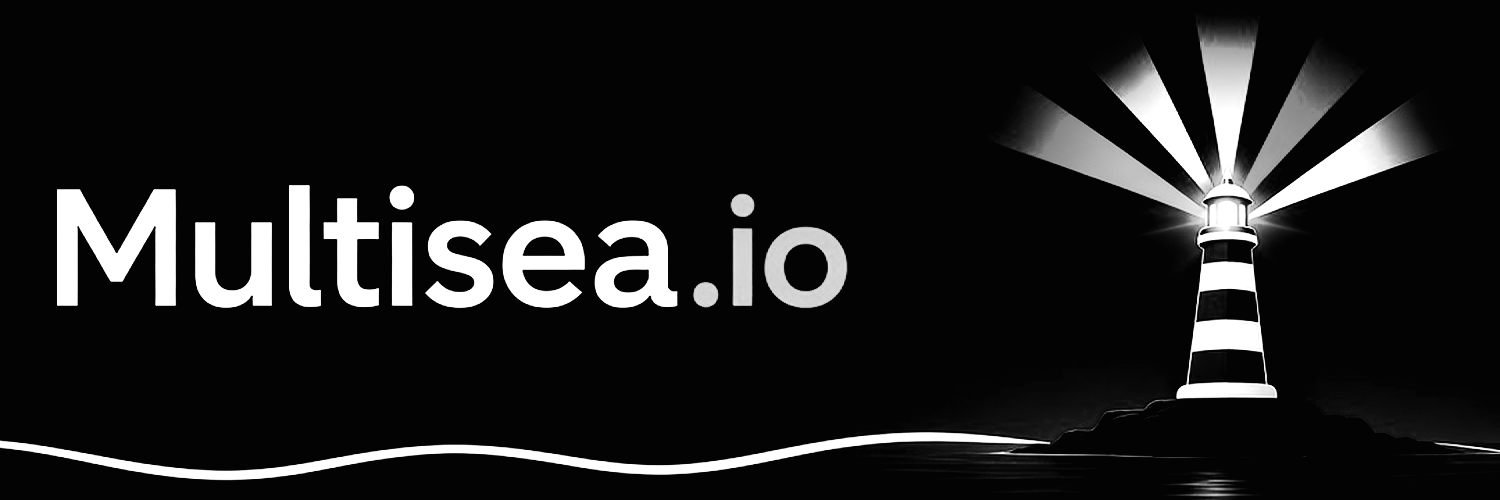
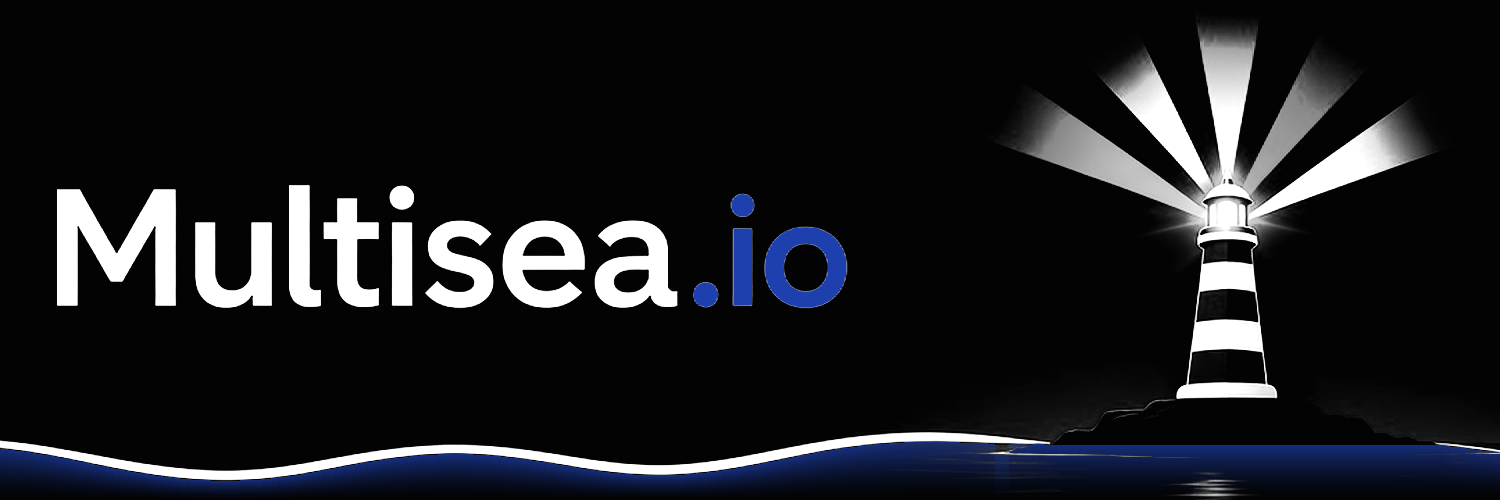
Deploy navy accents

Changed region(s): [[0.0, 0.87, 1.0, 0.99], [0.46, 0.39, 0.5827, 0.63]]

diff --git a/assets/style-61esdYXF.css b/assets/style-61esdYXF.css
@@ -1,0 +1,1 @@
+*{box-sizing:border-box}body{color:#e5e5e5;background:#000;margin:0;font:14px/1.4 Inter,-apple-system,Segoe UI,Roboto,sans-serif}a{color:#d9d9d9;text-decoration:none}button,select,input{font:inherit;color:inherit}.mono{font-family:ui-monospace,Menlo,monospace;font-size:12px}.mut{color:#8a8a93}.small{font-size:12px}.cl{vertical-align:middle;border-radius:50%;flex:none;width:18px;height:18px}.cl.lg{width:40px;height:40px}.top{-webkit-backdrop-filter:blur(8px);backdrop-filter:blur(8px);z-index:20;background:#000000f0;border-bottom:1px solid #262626;justify-content:space-between;align-items:center;padding:12px 20px;display:flex;position:sticky;top:0}.brand{font-size:17px;font-weight:800}.brand span{color:#d9d9d9}.colsel{background:#1a1a1a;border:1px solid #262626;border-radius:10px;padding:7px 10px}.banner{background:#111 50%/cover;flex-direction:column;justify-content:flex-end;min-height:380px;display:flex;position:relative;overflow:hidden}.banner-art{opacity:.55;filter:saturate(1.1);grid-template-columns:repeat(6,1fr);display:grid;position:absolute;inset:0}.banner-art img{object-fit:cover;aspect-ratio:1;width:100%;height:100%}.banner-fade{background:linear-gradient(#00000010 0%,#000a 55%,#000 100%);position:absolute;inset:0}.hero{align-items:flex-end;gap:18px;padding:0 24px;display:flex;position:relative}.avatar{object-fit:cover;background:#222;border:3px solid #000;border-radius:14px;width:96px;height:96px}h1{letter-spacing:-.5px;margin:0;font-size:34px;font-weight:800}.verified{vertical-align:middle;background:#d9d9d9;border-radius:50%;place-items:center;width:22px;height:22px;font-size:13px;display:inline-grid}.by{color:#bbb;align-items:center;gap:4px;margin-top:6px;font-size:13px;display:flex}.by span{margin-left:6px}.stats{flex-wrap:wrap;gap:34px;padding:18px 24px 20px;display:flex;position:relative}.stat{flex-direction:column;display:flex}.stat b{align-items:center;gap:6px;font-size:18px;font-weight:700;display:flex}.stat span{color:#9a9aa3;font-size:12px}.tip{cursor:help;position:relative}.tipbox{z-index:30;background:#1a1a1a;border:1px solid #262626;border-radius:12px;min-width:240px;padding:10px;display:none;position:absolute;top:100%;left:0;box-shadow:0 10px 30px #000a}.tip:hover .tipbox,.tip:focus .tipbox,.tip:active .tipbox{display:block}.tipr{align-items:center;gap:8px;padding:4px 0;display:flex}.tipr span{flex:1;color:#ccc!important;font-size:13px!important}.tipr b{font-size:13px}.tipnote{color:#777;margin-top:6px;font-size:11px}.need{color:#f5b450;white-space:nowrap;background:#3b2a12;border-radius:6px;margin-left:4px;padding:1px 6px;font-size:10px;font-style:normal}.tag{color:#e5e5e5;background:#1a1a1a;border-radius:6px;padding:1px 6px;font-size:10px;font-style:normal}.desc{color:#aaa;max-width:800px;margin:0 0 6px;padding:0 24px}.tabs{border-bottom:1px solid #262626;gap:22px;padding:0 24px;display:flex}.tabs button{color:#8a8a93;cursor:pointer;background:0 0;border:0;border-bottom:2px solid #0000;padding:14px 0;font-weight:600}.tabs .on{color:#fff;border-color:#fff}.chips{scrollbar-width:none;gap:8px;padding:12px 24px;display:flex;overflow-x:auto}.chip{white-space:nowrap;cursor:pointer;background:#141414;border:1px solid #262626;border-radius:999px;align-items:center;gap:6px;padding:6px 12px;display:flex}.chip.on{background:#1c1c1c;border-color:#d9d9d9}.chip em{color:#888;font-size:12px;font-style:normal}.content{padding:0 24px 40px}.bar{z-index:10;background:#000;gap:10px;padding:8px 0 12px;display:flex;position:sticky;top:57px}.fbtn,.search,.sort{background:#141414;border:1px solid #262626;border-radius:12px;padding:10px 14px}.fbtn{cursor:pointer}.search{flex:1;min-width:0}.layout{gap:20px;display:flex}.side{flex:none;width:280px;max-height:calc(100vh - 130px);display:none;position:sticky;top:120px;overflow:auto}.side.open{display:block}.side-h{display:none}.grp{border-bottom:1px solid #262626;padding:8px 0}.gh{padding:6px 0;font-weight:700}.gh.pad{padding-top:14px}.grp summary{cursor:pointer;justify-content:space-between;padding:8px 0;font-weight:600;list-style:none;display:flex}.grp summary:after{content:"▾";color:#666}.grp summary em{color:#777;margin-left:auto;margin-right:8px;font-style:normal}.grp label{cursor:pointer;border-radius:8px;align-items:center;gap:8px;padding:5px 4px;font-size:13px;display:flex}.grp label:hover{background:#141414}.grp label em{color:#777;margin-left:auto;font-style:normal}.main{flex:1;min-width:0}.count{color:#aaa;flex-wrap:wrap;align-items:center;gap:10px;padding:4px 0 12px;display:flex}.pills{flex-wrap:wrap;gap:6px;display:flex}.pill{cursor:pointer;background:#1a1a1a;border:1px solid #262626;border-radius:10px;padding:4px 10px;font-size:12px}.pill.clr{color:#d9d9d9;background:0 0;border:0}.grid{grid-template-columns:repeat(auto-fill,minmax(190px,1fr));gap:14px;display:grid}.card{cursor:pointer;background:#141414;border-radius:12px;transition:transform .15s,box-shadow .15s;overflow:hidden}.card:hover{transform:translateY(-3px);box-shadow:0 8px 24px #000c}.ci{aspect-ratio:1;background:#1a1a1a;position:relative}.ci img{object-fit:cover;width:100%;height:100%;display:block}.badge{background:#000a;border-radius:50%;padding:3px;display:flex;position:absolute;top:8px;left:8px}.badge .cl{width:22px;height:22px}.badge.none{color:#aaa;justify-content:center;align-items:center;width:28px;height:28px;font-weight:700}.rank{color:#ddd;background:#000b;border-radius:8px;padding:2px 7px;font-size:11px;position:absolute;top:8px;right:8px}.cb{padding:10px 12px}.cn{white-space:nowrap;text-overflow:ellipsis;font-size:13px;font-weight:600;overflow:hidden}.cp{margin-top:4px;font-size:13px}.more{text-align:center;padding:20px}.more button{cursor:pointer;background:#d9d9d9;border:0;border-radius:12px;padding:10px 26px;font-weight:600}.act{margin-top:6px}.acth,.actr{border-bottom:1px solid #1a1a1a;grid-template-columns:120px 1.6fr 1fr 1fr 1fr 110px;align-items:center;gap:10px;padding:10px 6px;display:grid}.acth{color:#777;font-size:12px}.ev{align-items:center;gap:8px;display:flex}.t-sale{color:#3fd68f}.t-mint{color:#e5e5e5}.ai{cursor:pointer;align-items:center;gap:10px;min-width:0;display:flex}.ai img{object-fit:cover;border-radius:8px;width:40px;height:40px}.ai span{white-space:nowrap;text-overflow:ellipsis;overflow:hidden}.empty{text-align:center;color:#777;padding:40px}.ctab{grid-template-columns:repeat(auto-fill,minmax(320px,1fr));gap:14px;padding-top:6px;display:grid}.cc{background:#141414;border-radius:14px;gap:14px;padding:16px;display:flex}.cc h3{margin:0 0 4px;font-size:16px}.cc a.mono{word-break:break-all}.kv{grid-template-columns:1fr auto;gap:4px 16px;margin-top:10px;font-size:13px;display:grid}.kv span{color:#999}.os{margin-top:10px;display:inline-block}.ctab>p{grid-column:1/-1}.modal{z-index:50;background:#000c;place-items:center;padding:20px;display:grid;position:fixed;inset:0;overflow:auto}.mbox{background:#121212;border:1px solid #262626;border-radius:18px;grid-template-columns:1fr 1fr;width:100%;max-width:1000px;display:grid;position:relative;overflow:hidden}.mimg img{aspect-ratio:1;object-fit:cover;width:100%;display:block}.minfo{max-height:90vh;padding:24px;overflow:auto}.mcol{color:#d9d9d9;font-weight:600}.minfo h2{margin:4px 0 10px;font-size:28px}.mrow{color:#bbb;flex-wrap:wrap;align-items:center;gap:16px;display:flex}.mrow span{align-items:center;gap:6px;display:flex}.pricebox{background:#171717;border:1px solid #262626;border-radius:14px;margin:16px 0;padding:14px}.big{align-items:center;gap:8px;margin:4px 0;font-size:26px;font-weight:800;display:flex}.osls{flex-wrap:wrap;gap:6px;margin-top:10px;display:flex}.osl{color:#ddd;background:#202020;border-radius:10px;align-items:center;gap:6px;padding:6px 10px;font-size:12px;display:flex}.osl.cur{color:#fff;background:#d9d9d9}.tgrid{grid-template-columns:repeat(auto-fill,minmax(140px,1fr));gap:8px;display:grid}.trait{background:#171717;border:1px solid #262626;border-radius:10px;flex-direction:column;padding:8px 10px;display:flex}.trait span{color:#8a8a93;text-transform:uppercase;font-size:11px}.trait b{font-size:14px}.trait em{color:#d9d9d9;font-size:11px;font-style:normal}.x{cursor:pointer;background:#0008;border:0;border-radius:50%;width:32px;height:32px}.mx{z-index:2;position:absolute;top:10px;right:10px}img.broken{opacity:.15}@media (max-width:900px){.side{z-index:40;background:#000;width:auto;max-height:none;padding:16px;position:fixed;inset:0}.side-h{justify-content:space-between;align-items:center;margin-bottom:8px;display:flex}.bar{top:53px}}@media (max-width:640px){.top{padding:10px 14px}.banner{min-height:300px}.banner-art{grid-template-columns:repeat(4,1fr)}.hero{padding:0 14px}.avatar{width:72px;height:72px}h1{font-size:24px}.stats{grid-template-columns:repeat(3,1fr);gap:12px 10px;padding:14px;display:grid}.stat b{font-size:15px}.stat span{font-size:11px}.tipbox{min-width:220px}.stats .stat:nth-child(3n) .tipbox{left:auto;right:0}.desc{padding:0 14px;font-size:13px}.tabs{padding:0 14px}.chips{padding:10px 14px}.content{padding:0 10px 30px}.grid{grid-template-columns:repeat(2,1fr);gap:10px}.sort{max-width:42%}.fbtn{padding:10px}.acth{display:none}.actr{grid-template-columns:auto 1fr auto;grid-template-areas:"ev ai pr""ev fr tm";gap:4px 10px}.actr>span:first-child{grid-area:ev}.actr>span:nth-child(2){grid-area:ai}.actr>span:nth-child(3){text-align:right;grid-area:pr}.actr>span:nth-child(4){display:none}.actr>span:nth-child(5){color:#888;grid-area:fr}.actr>span:nth-child(6){text-align:right;grid-area:tm;font-size:12px}.ev b{display:none}.mbox{grid-template-columns:1fr}.minfo{max-height:none}.modal{place-items:start center;padding:10px}.ctab{grid-template-columns:1fr}}.navr{align-items:center;gap:8px;display:flex}.wbtn{cursor:pointer;white-space:nowrap;background:#d9d9d9;border:0;border-radius:10px;align-items:center;gap:6px;padding:8px 12px;font-weight:700;display:flex}.wbtn.on{background:#1a1a1a;border:1px solid #262626;font-family:ui-monospace,Menlo,monospace;font-size:12px}.wdot{background:#555;border-radius:50%;width:8px;height:8px;display:inline-block}.wdot.on{background:#3fd68f}.buy{cursor:pointer;background:#d9d9d9;border:0;border-radius:8px;width:100%;margin-top:8px;padding:7px;font-weight:700}.buy:disabled{color:#888;cursor:not-allowed;background:#262626}.buy small{opacity:.8;font-size:10px;font-weight:500}.buy.big{margin:10px 0 0;padding:12px;font-size:16px}.wbox{background:#121212;border:1px solid #262626;border-radius:18px;width:100%;max-width:420px;padding:20px;position:relative}.wbox h3{margin:0 0 12px}.wopt{cursor:pointer;color:#eee;background:#171717;border:1px solid #262626;border-radius:12px;align-items:center;gap:12px;width:100%;margin:8px 0;padding:12px;font-weight:600;display:flex}.wopt img,.wopt .wdot{border-radius:6px;width:28px;height:28px}.bhead{align-items:center;gap:12px;margin-bottom:14px;display:flex}.bhead img{object-fit:cover;border-radius:10px;width:64px;height:64px}.bhead h3{margin:2px 0 0}.bbody{min-height:60px}.bkv{grid-template-columns:auto 1fr;gap:8px 14px;font-size:14px}.bkv b{text-align:right;justify-content:flex-end;align-items:center;gap:6px;display:flex}.bbtn{text-align:center;color:#fff;cursor:pointer;background:#d9d9d9;border:0;border-radius:12px;width:100%;margin-top:12px;padding:13px;font-size:15px;font-weight:700;display:block}.bbtn:disabled{color:#777;background:#262626}.bbtn.ghost{background:#202020}.err{color:#ff6b6b}.errc{color:#ff6b6b!important}.ok{color:#3fd68f}.spin{vertical-align:middle;border:2px solid #444;border-top-color:#d9d9d9;border-radius:50%;width:16px;height:16px;margin-right:8px;animation:1s linear infinite sp;display:inline-block}@keyframes sp{to{transform:rotate(360deg)}}@media (max-width:640px){.brand{font-size:15px}.colsel{display:none}.wbtn{padding:7px 10px;font-size:13px}}.banner-art span{aspect-ratio:1;display:block}.ci img{aspect-ratio:1;width:100%;height:auto}.mimg{aspect-ratio:1;position:relative}.mimg img{object-fit:cover;width:100%;height:100%;position:absolute;inset:0}.mimg .hi{opacity:0;transition:opacity .25s}.mimg .hi.in{opacity:1}:root{--navy:#0a0a0a;--beam-blue:#d9d9d9;--beam-cyan:#22d3ee;--beam-amber:#fbbf24;--beam-violet:#bdbdbd;--beam-lime:#a3e635}.brand{color:#fff;letter-spacing:-.3px;align-items:center;gap:8px;font-size:18px;font-weight:800;text-decoration:none;display:flex}.brand img{border-radius:8px}.brand b{color:var(--beam-blue)}.navl{flex:1;gap:16px;margin-left:24px;display:flex}.navl a{color:#bdbdbd;font-size:14px;font-weight:600}.navl a.on,.navl a:hover{color:#fff}.top{background:linear-gradient(#0a0a0af5,#0a0a0af0)!important;border-bottom:1px solid #262626!important}.top:after{content:"";background:linear-gradient(90deg,var(--beam-violet),var(--beam-amber),var(--beam-cyan),var(--beam-blue),var(--beam-lime));opacity:.7;height:2px;position:absolute;bottom:-1px;left:0;right:0}.mshero{background:#0a0a0a;line-height:0}.mshero img{object-fit:cover;object-position:left center;width:100%;height:auto;max-height:420px}.home{max-width:1280px;margin:0 auto;padding:20px 24px 40px}.homeh{justify-content:space-between;align-items:center;display:flex}.homeh h2{margin:6px 0}.bbtn.sm{width:auto;margin:0;padding:9px 16px;font-size:14px;display:inline-block}.cgrid{grid-template-columns:repeat(auto-fill,minmax(300px,1fr));gap:18px;margin-top:16px;display:grid}.ccard{color:#ededed;background:#141414;border:1px solid #262626;border-radius:16px;transition:transform .15s,box-shadow .15s;display:block;overflow:hidden}.ccard:hover{transform:translateY(-3px);box-shadow:0 10px 30px #000a}.ccb{background:#1a1a1a;height:130px;position:relative;overflow:hidden}.ccb>img{object-fit:cover;width:100%;height:100%}.ccart{grid-template-columns:repeat(4,1fr);height:100%;display:grid}.ccart img{object-fit:cover;width:100%;height:100%}.ftag{background:linear-gradient(90deg,var(--beam-amber),var(--beam-lime));color:#0a0a0a;border-radius:999px;padding:3px 9px;font-size:11px;font-weight:800;position:absolute;top:10px;right:10px}.ccbody{padding:38px 16px 16px;position:relative}.cclogo{object-fit:cover;background:#1a1a1a;border:3px solid #141414;border-radius:12px;width:56px;height:56px;position:absolute;top:-30px;left:16px}.ccname{font-size:18px;font-weight:800}.ccchains{gap:4px;margin:6px 0 12px;display:flex}.ccstats{grid-template-columns:repeat(3,1fr);gap:8px;display:grid}.ccstats span{color:#9a9a9a;font-size:11px;display:block}.ccstats b{font-size:13px}.foot{color:#8a8a8a;border-top:1px solid #262626;justify-content:center;align-items:center;gap:8px;padding:24px;font-size:12px;display:flex}.banner.has-img{background-position:50%;background-size:cover}.hero2{align-items:flex-end;gap:18px;padding:0 24px;display:flex;position:relative}.descrow{flex-wrap:wrap;justify-content:space-between;align-items:flex-start;gap:16px;padding:0 24px;display:flex}.descrow .desc{flex:1;min-width:260px;padding:0}.links{flex-wrap:wrap;align-items:center;gap:10px;display:flex}.links a{color:#d4d4d4;background:#141414;border:1px solid #262626;border-radius:10px;padding:6px 10px;font-size:13px}.editbtn{background:linear-gradient(90deg,var(--beam-blue),var(--beam-cyan));color:#000;cursor:pointer;border:0;border-radius:10px;padding:7px 12px;font-weight:800}.page{max-width:820px;margin:0 auto;padding:24px 18px 60px}.page h2{margin:4px 0 8px}.form label{margin:12px 0;font-size:14px;font-weight:600;display:block}.form input:not([type=file]),.form textarea,.form select{color:#fff;width:100%;font:inherit;background:#141414;border:1px solid #262626;border-radius:10px;margin-top:6px;padding:10px 12px;display:block}.form fieldset{border:0;margin:0;padding:0}.form fieldset:disabled{opacity:.45}.two{grid-template-columns:1fr 1fr;gap:14px;display:grid}.three{grid-template-columns:1fr 1fr 1fr;gap:14px;display:grid}.crow{align-items:center;gap:8px;margin:8px 0;display:flex}.crow select{flex:none;width:150px!important;margin:0!important}.crow input{margin:0!important}.chk{white-space:nowrap;font-size:12px}.pick{align-items:center;gap:10px;margin-top:6px;display:flex}.pv{object-fit:cover;background:#1a1a1a;border-radius:10px;flex:none}.pv.lg{width:64px;height:64px}.pv.bn{width:150px;height:50px}.pv[src=""]{visibility:hidden}.soon{color:#ffd27a;background:#2a1f05;border:1px solid #6b4d0a;border-radius:12px;margin:12px 0;padding:12px 14px}.okbox{color:#7ef0b5;background:#06321f;border:1px solid #0f6b43;border-radius:12px;margin:12px 0;padding:12px 14px}.msg{min-height:1em}.qcard{background:#141414;border:1px solid #262626;border-radius:14px;margin:12px 0;padding:14px}.qh{align-items:center;gap:10px;display:flex}.qh img{border-radius:10px;width:44px;height:44px}.qa{gap:8px;margin-top:10px;display:flex}.wbox.form{max-height:90vh;overflow:auto}@media (max-width:640px){.navl{gap:10px;margin-left:10px}.navl a{font-size:13px}.brand span{font-size:16px}.brand img{width:28px;height:28px}.two,.three{grid-template-columns:1fr}.home{padding:16px 12px}.cgrid{grid-template-columns:1fr}.mshero img{max-height:200px}.descrow,.hero2{padding:0 14px}}@media (max-width:380px){.navl a:first-child{display:none}}.stat small.usd{color:#8a8a8a;margin-top:1px;font-size:11px;font-weight:600;display:block}.ccstats{grid-template-columns:repeat(4,1fr)}@media (max-width:480px){.ccstats{grid-template-columns:repeat(2,1fr)}}.verified,.osl.cur{color:#000!important;background:#d9d9d9!important}.more button,.wbtn,.buy,.bbtn{color:#fff!important;background:#1e40af!important;border-color:#1e40af!important}.more button:hover,.wbtn:hover,.buy:hover,.bbtn:hover{background:#2550c8!important}.bbtn:disabled,.buy:disabled{color:#9aa4c0!important;background:#1a2a55!important}.ccard.feat{border-color:#d9d9d988;box-shadow:0 0 0 1px #d9d9d944,0 8px 30px #ffffff14}:root{--beam-blue:#d9d9d9;--beam-cyan:#f2f2f2;--beam-amber:#bfbfbf;--beam-violet:#8c8c8c;--beam-lime:#e6e6e6}.editbtn,.ftag{color:#000!important}

diff --git a/404.html b/404.html
@@ -6,14 +6,14 @@
 <link rel="icon" href="/favicon.ico?v=ef1ef443" sizes="32x32"/><link rel="icon" type="image/png" sizes="16x16" href="/favicon-16.png?v=b2f59e7b"/><link rel="icon" type="image/png" sizes="48x48" href="/favicon-48.png?v=a41dc6f3"/>
 <link rel="apple-touch-icon" href="/apple-touch-icon.png?v=9adb47bd"/><link rel="manifest" href="/site.webmanifest?v=d0d1082e"/>
 <meta property="og:type" content="website"/><meta property="og:site_name" content="MultiSea"/><meta property="og:title" content="MultiSea"/>
-<meta property="og:description" content="Multichain NFT collections in one view."/><meta property="og:image" content="https://multisea.io/og-image.png?v=d1154efe"/>
+<meta property="og:description" content="Multichain NFT collections in one view."/><meta property="og:image" content="https://multisea.io/og-image.png?v=bb83f59c"/>
 <meta property="og:image:width" content="1200"/><meta property="og:image:height" content="630"/><meta property="og:url" content="https://multisea.io/"/>
-<meta name="twitter:card" content="summary_large_image"/><meta name="twitter:image" content="https://multisea.io/og-image.png?v=d1154efe"/>
-<script>(function(){var m=location.pathname.match(/^\/c\/(lil-foots)\/?$/);var f=m?['summary.json','items.min.json','listings.json','owners.min.json','traits.json'].map(function(x){return '/data/'+m[1]+'/'+x}):location.pathname==='/'||location.pathname==='/index.html'?['/data/lil-foots/summary.json']:[];f.forEach(function(h){var l=document.createElement('link');l.rel='preload';l.as='fetch';l.crossOrigin='anonymous';l.href=h;document.head.appendChild(l)});if(location.pathname==='/'){var p=document.createElement('link');p.rel='preload';p.as='image';p.href='/brand/banner-1500.webp?v=c148c0fe';p.setAttribute('imagesrcset','/brand/banner-900.webp?v=5218b50e 900w, /brand/banner-1500.webp?v=c148c0fe 1500w');p.setAttribute('imagesizes','100vw');document.head.appendChild(p)}})();</script>
+<meta name="twitter:card" content="summary_large_image"/><meta name="twitter:image" content="https://multisea.io/og-image.png?v=bb83f59c"/>
+<script>(function(){var m=location.pathname.match(/^\/c\/(lil-foots)\/?$/);var f=m?['summary.json','items.min.json','listings.json','owners.min.json','traits.json'].map(function(x){return '/data/'+m[1]+'/'+x}):location.pathname==='/'||location.pathname==='/index.html'?['/data/lil-foots/summary.json']:[];f.forEach(function(h){var l=document.createElement('link');l.rel='preload';l.as='fetch';l.crossOrigin='anonymous';l.href=h;document.head.appendChild(l)});if(location.pathname==='/'){var p=document.createElement('link');p.rel='preload';p.as='image';p.href='/brand/banner-1500.webp?v=0071b6aa';p.setAttribute('imagesrcset','/brand/banner-900.webp?v=30b60469 900w, /brand/banner-1500.webp?v=0071b6aa 1500w');p.setAttribute('imagesizes','100vw');document.head.appendChild(p)}})();</script>
 <style>body{background:#000;margin:0}</style>
-  <script type="module" crossorigin src="/assets/index-DZs3pemG.js"></script>
+  <script type="module" crossorigin src="/assets/index-DQEPmJRS.js"></script>
   <link rel="modulepreload" crossorigin href="/assets/collections-D3tCsCNy.js">
   <link rel="modulepreload" crossorigin href="/assets/preload-helper-BLdHbfdN.js">
-  <link rel="stylesheet" crossorigin href="/assets/style-CsZItRQj.css">
+  <link rel="stylesheet" crossorigin href="/assets/style-61esdYXF.css">
 </head>
 <body><div id="app"></div></body></html>

diff --git a/admin/index.html b/admin/index.html
@@ -6,14 +6,14 @@
 <link rel="icon" href="/favicon.ico?v=ef1ef443" sizes="32x32"/><link rel="icon" type="image/png" sizes="16x16" href="/favicon-16.png?v=b2f59e7b"/><link rel="icon" type="image/png" sizes="48x48" href="/favicon-48.png?v=a41dc6f3"/>
 <link rel="apple-touch-icon" href="/apple-touch-icon.png?v=9adb47bd"/><link rel="manifest" href="/site.webmanifest?v=d0d1082e"/>
 <meta property="og:type" content="website"/><meta property="og:site_name" content="MultiSea"/><meta property="og:title" content="MultiSea"/>
-<meta property="og:description" content="Multichain NFT collections in one view."/><meta property="og:image" content="https://multisea.io/og-image.png?v=d1154efe"/>
+<meta property="og:description" content="Multichain NFT collections in one view."/><meta property="og:image" content="https://multisea.io/og-image.png?v=bb83f59c"/>
 <meta property="og:image:width" content="1200"/><meta property="og:image:height" content="630"/><meta property="og:url" content="https://multisea.io/"/>
-<meta name="twitter:card" content="summary_large_image"/><meta name="twitter:image" content="https://multisea.io/og-image.png?v=d1154efe"/>
-<script>(function(){var m=location.pathname.match(/^\/c\/(lil-foots)\/?$/);var f=m?['summary.json','items.min.json','listings.json','owners.min.json','traits.json'].map(function(x){return '/data/'+m[1]+'/'+x}):location.pathname==='/'||location.pathname==='/index.html'?['/data/lil-foots/summary.json']:[];f.forEach(function(h){var l=document.createElement('link');l.rel='preload';l.as='fetch';l.crossOrigin='anonymous';l.href=h;document.head.appendChild(l)});if(location.pathname==='/'){var p=document.createElement('link');p.rel='preload';p.as='image';p.href='/brand/banner-1500.webp?v=c148c0fe';p.setAttribute('imagesrcset','/brand/banner-900.webp?v=5218b50e 900w, /brand/banner-1500.webp?v=c148c0fe 1500w');p.setAttribute('imagesizes','100vw');document.head.appendChild(p)}})();</script>
+<meta name="twitter:card" content="summary_large_image"/><meta name="twitter:image" content="https://multisea.io/og-image.png?v=bb83f59c"/>
+<script>(function(){var m=location.pathname.match(/^\/c\/(lil-foots)\/?$/);var f=m?['summary.json','items.min.json','listings.json','owners.min.json','traits.json'].map(function(x){return '/data/'+m[1]+'/'+x}):location.pathname==='/'||location.pathname==='/index.html'?['/data/lil-foots/summary.json']:[];f.forEach(function(h){var l=document.createElement('link');l.rel='preload';l.as='fetch';l.crossOrigin='anonymous';l.href=h;document.head.appendChild(l)});if(location.pathname==='/'){var p=document.createElement('link');p.rel='preload';p.as='image';p.href='/brand/banner-1500.webp?v=0071b6aa';p.setAttribute('imagesrcset','/brand/banner-900.webp?v=30b60469 900w, /brand/banner-1500.webp?v=0071b6aa 1500w');p.setAttribute('imagesizes','100vw');document.head.appendChild(p)}})();</script>
 <style>body{background:#000;margin:0}</style>
-  <script type="module" crossorigin src="/assets/index-DZs3pemG.js"></script>
+  <script type="module" crossorigin src="/assets/index-DQEPmJRS.js"></script>
   <link rel="modulepreload" crossorigin href="/assets/collections-D3tCsCNy.js">
   <link rel="modulepreload" crossorigin href="/assets/preload-helper-BLdHbfdN.js">
-  <link rel="stylesheet" crossorigin href="/assets/style-CsZItRQj.css">
+  <link rel="stylesheet" crossorigin href="/assets/style-61esdYXF.css">
 </head>
 <body><div id="app"></div></body></html>

diff --git a/c/lil-foots/index.html b/c/lil-foots/index.html
@@ -6,14 +6,14 @@
 <link rel="icon" href="/favicon.ico?v=ef1ef443" sizes="32x32"/><link rel="icon" type="image/png" sizes="16x16" href="/favicon-16.png?v=b2f59e7b"/><link rel="icon" type="image/png" sizes="48x48" href="/favicon-48.png?v=a41dc6f3"/>
 <link rel="apple-touch-icon" href="/apple-touch-icon.png?v=9adb47bd"/><link rel="manifest" href="/site.webmanifest?v=d0d1082e"/>
 <meta property="og:type" content="website"/><meta property="og:site_name" content="MultiSea"/><meta property="og:title" content="MultiSea"/>
-<meta property="og:description" content="Multichain NFT collections in one view."/><meta property="og:image" content="https://multisea.io/og-image.png?v=d1154efe"/>
+<meta property="og:description" content="Multichain NFT collections in one view."/><meta property="og:image" content="https://multisea.io/og-image.png?v=bb83f59c"/>
 <meta property="og:image:width" content="1200"/><meta property="og:image:height" content="630"/><meta property="og:url" content="https://multisea.io/"/>
-<meta name="twitter:card" content="summary_large_image"/><meta name="twitter:image" content="https://multisea.io/og-image.png?v=d1154efe"/>
-<script>(function(){var m=location.pathname.match(/^\/c\/(lil-foots)\/?$/);var f=m?['summary.json','items.min.json','listings.json','owners.min.json','traits.json'].map(function(x){return '/data/'+m[1]+'/'+x}):location.pathname==='/'||location.pathname==='/index.html'?['/data/lil-foots/summary.json']:[];f.forEach(function(h){var l=document.createElement('link');l.rel='preload';l.as='fetch';l.crossOrigin='anonymous';l.href=h;document.head.appendChild(l)});if(location.pathname==='/'){var p=document.createElement('link');p.rel='preload';p.as='image';p.href='/brand/banner-1500.webp?v=c148c0fe';p.setAttribute('imagesrcset','/brand/banner-900.webp?v=5218b50e 900w, /brand/banner-1500.webp?v=c148c0fe 1500w');p.setAttribute('imagesizes','100vw');document.head.appendChild(p)}})();</script>
+<meta name="twitter:card" content="summary_large_image"/><meta name="twitter:image" content="https://multisea.io/og-image.png?v=bb83f59c"/>
+<script>(function(){var m=location.pathname.match(/^\/c\/(lil-foots)\/?$/);var f=m?['summary.json','items.min.json','listings.json','owners.min.json','traits.json'].map(function(x){return '/data/'+m[1]+'/'+x}):location.pathname==='/'||location.pathname==='/index.html'?['/data/lil-foots/summary.json']:[];f.forEach(function(h){var l=document.createElement('link');l.rel='preload';l.as='fetch';l.crossOrigin='anonymous';l.href=h;document.head.appendChild(l)});if(location.pathname==='/'){var p=document.createElement('link');p.rel='preload';p.as='image';p.href='/brand/banner-1500.webp?v=0071b6aa';p.setAttribute('imagesrcset','/brand/banner-900.webp?v=30b60469 900w, /brand/banner-1500.webp?v=0071b6aa 1500w');p.setAttribute('imagesizes','100vw');document.head.appendChild(p)}})();</script>
 <style>body{background:#000;margin:0}</style>
-  <script type="module" crossorigin src="/assets/index-DZs3pemG.js"></script>
+  <script type="module" crossorigin src="/assets/index-DQEPmJRS.js"></script>
   <link rel="modulepreload" crossorigin href="/assets/collections-D3tCsCNy.js">
   <link rel="modulepreload" crossorigin href="/assets/preload-helper-BLdHbfdN.js">
-  <link rel="stylesheet" crossorigin href="/assets/style-CsZItRQj.css">
+  <link rel="stylesheet" crossorigin href="/assets/style-61esdYXF.css">
 </head>
 <body><div id="app"></div></body></html>

diff --git a/index.html b/index.html
@@ -6,14 +6,14 @@
 <link rel="icon" href="/favicon.ico?v=ef1ef443" sizes="32x32"/><link rel="icon" type="image/png" sizes="16x16" href="/favicon-16.png?v=b2f59e7b"/><link rel="icon" type="image/png" sizes="48x48" href="/favicon-48.png?v=a41dc6f3"/>
 <link rel="apple-touch-icon" href="/apple-touch-icon.png?v=9adb47bd"/><link rel="manifest" href="/site.webmanifest?v=d0d1082e"/>
 <meta property="og:type" content="website"/><meta property="og:site_name" content="MultiSea"/><meta property="og:title" content="MultiSea"/>
-<meta property="og:description" content="Multichain NFT collections in one view."/><meta property="og:image" content="https://multisea.io/og-image.png?v=d1154efe"/>
+<meta property="og:description" content="Multichain NFT collections in one view."/><meta property="og:image" content="https://multisea.io/og-image.png?v=bb83f59c"/>
 <meta property="og:image:width" content="1200"/><meta property="og:image:height" content="630"/><meta property="og:url" content="https://multisea.io/"/>
-<meta name="twitter:card" content="summary_large_image"/><meta name="twitter:image" content="https://multisea.io/og-image.png?v=d1154efe"/>
-<script>(function(){var m=location.pathname.match(/^\/c\/(lil-foots)\/?$/);var f=m?['summary.json','items.min.json','listings.json','owners.min.json','traits.json'].map(function(x){return '/data/'+m[1]+'/'+x}):location.pathname==='/'||location.pathname==='/index.html'?['/data/lil-foots/summary.json']:[];f.forEach(function(h){var l=document.createElement('link');l.rel='preload';l.as='fetch';l.crossOrigin='anonymous';l.href=h;document.head.appendChild(l)});if(location.pathname==='/'){var p=document.createElement('link');p.rel='preload';p.as='image';p.href='/brand/banner-1500.webp?v=c148c0fe';p.setAttribute('imagesrcset','/brand/banner-900.webp?v=5218b50e 900w, /brand/banner-1500.webp?v=c148c0fe 1500w');p.setAttribute('imagesizes','100vw');document.head.appendChild(p)}})();</script>
+<meta name="twitter:card" content="summary_large_image"/><meta name="twitter:image" content="https://multisea.io/og-image.png?v=bb83f59c"/>
+<script>(function(){var m=location.pathname.match(/^\/c\/(lil-foots)\/?$/);var f=m?['summary.json','items.min.json','listings.json','owners.min.json','traits.json'].map(function(x){return '/data/'+m[1]+'/'+x}):location.pathname==='/'||location.pathname==='/index.html'?['/data/lil-foots/summary.json']:[];f.forEach(function(h){var l=document.createElement('link');l.rel='preload';l.as='fetch';l.crossOrigin='anonymous';l.href=h;document.head.appendChild(l)});if(location.pathname==='/'){var p=document.createElement('link');p.rel='preload';p.as='image';p.href='/brand/banner-1500.webp?v=0071b6aa';p.setAttribute('imagesrcset','/brand/banner-900.webp?v=30b60469 900w, /brand/banner-1500.webp?v=0071b6aa 1500w');p.setAttribute('imagesizes','100vw');document.head.appendChild(p)}})();</script>
 <style>body{background:#000;margin:0}</style>
-  <script type="module" crossorigin src="/assets/index-DZs3pemG.js"></script>
+  <script type="module" crossorigin src="/assets/index-DQEPmJRS.js"></script>
   <link rel="modulepreload" crossorigin href="/assets/collections-D3tCsCNy.js">
   <link rel="modulepreload" crossorigin href="/assets/preload-helper-BLdHbfdN.js">
-  <link rel="stylesheet" crossorigin href="/assets/style-CsZItRQj.css">
+  <link rel="stylesheet" crossorigin href="/assets/style-61esdYXF.css">
 </head>
 <body><div id="app"></div></body></html>

diff --git a/submit/index.html b/submit/index.html
@@ -6,14 +6,14 @@
 <link rel="icon" href="/favicon.ico?v=ef1ef443" sizes="32x32"/><link rel="icon" type="image/png" sizes="16x16" href="/favicon-16.png?v=b2f59e7b"/><link rel="icon" type="image/png" sizes="48x48" href="/favicon-48.png?v=a41dc6f3"/>
 <link rel="apple-touch-icon" href="/apple-touch-icon.png?v=9adb47bd"/><link rel="manifest" href="/site.webmanifest?v=d0d1082e"/>
 <meta property="og:type" content="website"/><meta property="og:site_name" content="MultiSea"/><meta property="og:title" content="MultiSea"/>
-<meta property="og:description" content="Multichain NFT collections in one view."/><meta property="og:image" content="https://multisea.io/og-image.png?v=d1154efe"/>
+<meta property="og:description" content="Multichain NFT collections in one view."/><meta property="og:image" content="https://multisea.io/og-image.png?v=bb83f59c"/>
 <meta property="og:image:width" content="1200"/><meta property="og:image:height" content="630"/><meta property="og:url" content="https://multisea.io/"/>
-<meta name="twitter:card" content="summary_large_image"/><meta name="twitter:image" content="https://multisea.io/og-image.png?v=d1154efe"/>
-<script>(function(){var m=location.pathname.match(/^\/c\/(lil-foots)\/?$/);var f=m?['summary.json','items.min.json','listings.json','owners.min.json','traits.json'].map(function(x){return '/data/'+m[1]+'/'+x}):location.pathname==='/'||location.pathname==='/index.html'?['/data/lil-foots/summary.json']:[];f.forEach(function(h){var l=document.createElement('link');l.rel='preload';l.as='fetch';l.crossOrigin='anonymous';l.href=h;document.head.appendChild(l)});if(location.pathname==='/'){var p=document.createElement('link');p.rel='preload';p.as='image';p.href='/brand/banner-1500.webp?v=c148c0fe';p.setAttribute('imagesrcset','/brand/banner-900.webp?v=5218b50e 900w, /brand/banner-1500.webp?v=c148c0fe 1500w');p.setAttribute('imagesizes','100vw');document.head.appendChild(p)}})();</script>
+<meta name="twitter:card" content="summary_large_image"/><meta name="twitter:image" content="https://multisea.io/og-image.png?v=bb83f59c"/>
+<script>(function(){var m=location.pathname.match(/^\/c\/(lil-foots)\/?$/);var f=m?['summary.json','items.min.json','listings.json','owners.min.json','traits.json'].map(function(x){return '/data/'+m[1]+'/'+x}):location.pathname==='/'||location.pathname==='/index.html'?['/data/lil-foots/summary.json']:[];f.forEach(function(h){var l=document.createElement('link');l.rel='preload';l.as='fetch';l.crossOrigin='anonymous';l.href=h;document.head.appendChild(l)});if(location.pathname==='/'){var p=document.createElement('link');p.rel='preload';p.as='image';p.href='/brand/banner-1500.webp?v=0071b6aa';p.setAttribute('imagesrcset','/brand/banner-900.webp?v=30b60469 900w, /brand/banner-1500.webp?v=0071b6aa 1500w');p.setAttribute('imagesizes','100vw');document.head.appendChild(p)}})();</script>
 <style>body{background:#000;margin:0}</style>
-  <script type="module" crossorigin src="/assets/index-DZs3pemG.js"></script>
+  <script type="module" crossorigin src="/assets/index-DQEPmJRS.js"></script>
   <link rel="modulepreload" crossorigin href="/assets/collections-D3tCsCNy.js">
   <link rel="modulepreload" crossorigin href="/assets/preload-helper-BLdHbfdN.js">
-  <link rel="stylesheet" crossorigin href="/assets/style-CsZItRQj.css">
+  <link rel="stylesheet" crossorigin href="/assets/style-61esdYXF.css">
 </head>
 <body><div id="app"></div></body></html>

diff --git a/assets/index-DQEPmJRS.js b/assets/index-DQEPmJRS.js
@@ -1,0 +1,2 @@
+const __vite__mapDeps=(i,m=__vite__mapDeps,d=(m.f||(m.f=["assets/home-v15P0p_i.js","assets/collections-D3tCsCNy.js","assets/shell-BnEjxCV-.js","assets/preload-helper-BLdHbfdN.js","assets/localBatchGatewayRequest-BVuXOZ0Y.js","assets/utils-Bpv4vmSW.js","assets/secp256k1-DAeh7u1B.js","assets/submit-Js1ArTxd.js","assets/auth-BBZ8qmdy.js","assets/admin-9XagrIAY.js","assets/collection-Y2-tn_lL.js","assets/edit-07gZj8II.js","assets/style-61esdYXF.css"])))=>i.map(i=>d[i]);
+/* empty css              */import{t as e}from"./collections-D3tCsCNy.js";import{t}from"./preload-helper-BLdHbfdN.js";(function(){let e=document.createElement(`link`).relList;if(e&&e.supports&&e.supports(`modulepreload`))return;for(let e of document.querySelectorAll(`link[rel="modulepreload"]`))n(e);new MutationObserver(e=>{for(let t of e)if(t.type===`childList`)for(let e of t.addedNodes)e.tagName===`LINK`&&e.rel===`modulepreload`&&n(e)}).observe(document,{childList:!0,subtree:!0});function t(e){let t={};return e.integrity&&(t.integrity=e.integrity),e.referrerPolicy&&(t.referrerPolicy=e.referrerPolicy),t.credentials=e.crossOrigin===`use-credentials`?`include`:e.crossOrigin===`anonymous`?`omit`:`same-origin`,t}function n(e){if(e.ep)return;e.ep=!0;let n=t(e);fetch(e.href,n)}})();var n=location.pathname.replace(/\/+$/,``)||`/`,r=new URLSearchParams(location.search);if(n===`/`&&(r.get(`item`)||r.get(`tab`)||r.get(`c`))){let t=r.get(`c`)||e.default;r.delete(`c`),location.replace(`/c/${t}${r.toString()?`?`+r:``}`)}var i=n.match(/^\/c\/([a-z0-9-]+)$/);n===`/`?t(()=>import(`./home-v15P0p_i.js`),__vite__mapDeps([0,1,2,3,4,5,6])):n===`/submit`?t(()=>import(`./submit-Js1ArTxd.js`),__vite__mapDeps([7,1,2,3,4,5,6,8])):n===`/admin`?t(()=>import(`./admin-9XagrIAY.js`),__vite__mapDeps([9,1,2,3,4,5,6,8])):i&&e.collections.some(e=>e.slug===i[1])?t(()=>import(`./collection-Y2-tn_lL.js`),__vite__mapDeps([10,1,2,3,4,5,6,11,8,12])):t(i?()=>import(`./dyn-DN26hY9X.js`):()=>import(`./home-v15P0p_i.js`).then(e=>e.notFound?.()),__vite__mapDeps([0,1,2,3,4,5,6]));

diff --git a/assets/home-v15P0p_i.js b/assets/home-v15P0p_i.js
@@ -2,7 +2,7 @@ import{t as e}from"./collections-D3tCsCNy.js";import{a as t,d as n,f as r,l as i
    <div class="ccbody"><img class="cclogo" src="${a(o(e.logo))}" alt="" width="56" height="56"><div class="ccname">${a(e.name)}</div>
    <div class="ccchains">${e.chains.map(e=>`<img class="cl" src="/logos/${e}.svg" title="${a(f[e]?.name)}" alt="">`).join(``)}</div>
    <div class="ccstats"><div><span>Floor</span><b>${a(e.floor??`-`)}</b></div><div><span>Volume</span><b>${a(e.volume??`-`)}</b></div><div><span>Owners</span><b>${a(e.owners??`-`)}</b></div><div title="Floor price × total supply"><span>Market cap</span><b>${a(e.mcap??`-`)}</b></div></div></div></a>`}function y(){d.innerHTML=`${l(`home`)}
-  <header class="mshero"><picture><source srcset="/brand/banner-900.webp?v=5218b50e 900w, /brand/banner-1500.webp?v=c148c0fe 1500w" type="image/webp" sizes="100vw"><img src="/brand/banner-1500.png?v=2b679047" alt="Multisea.io" width="1500" height="500" fetchpriority="high"></picture></header>
+  <header class="mshero"><picture><source srcset="/brand/banner-900.webp?v=30b60469 900w, /brand/banner-1500.webp?v=0071b6aa 1500w" type="image/webp" sizes="100vw"><img src="/brand/banner-1500.png?v=cfda66c8" alt="Multisea.io" width="1500" height="500" fetchpriority="high"></picture></header>
   <section class="home">${h?`<p class="soon">Page not found. Here are our collections:</p>`:``}
    <div class="homeh"><h2>Collections</h2><a class="bbtn sm" href="/submit">+ Submit a collection</a></div>
    <p class="mut">One collection, every chain. MultiSea combines multichain NFT collections into a single view: items, owners, floor and activity, across chains.</p>
